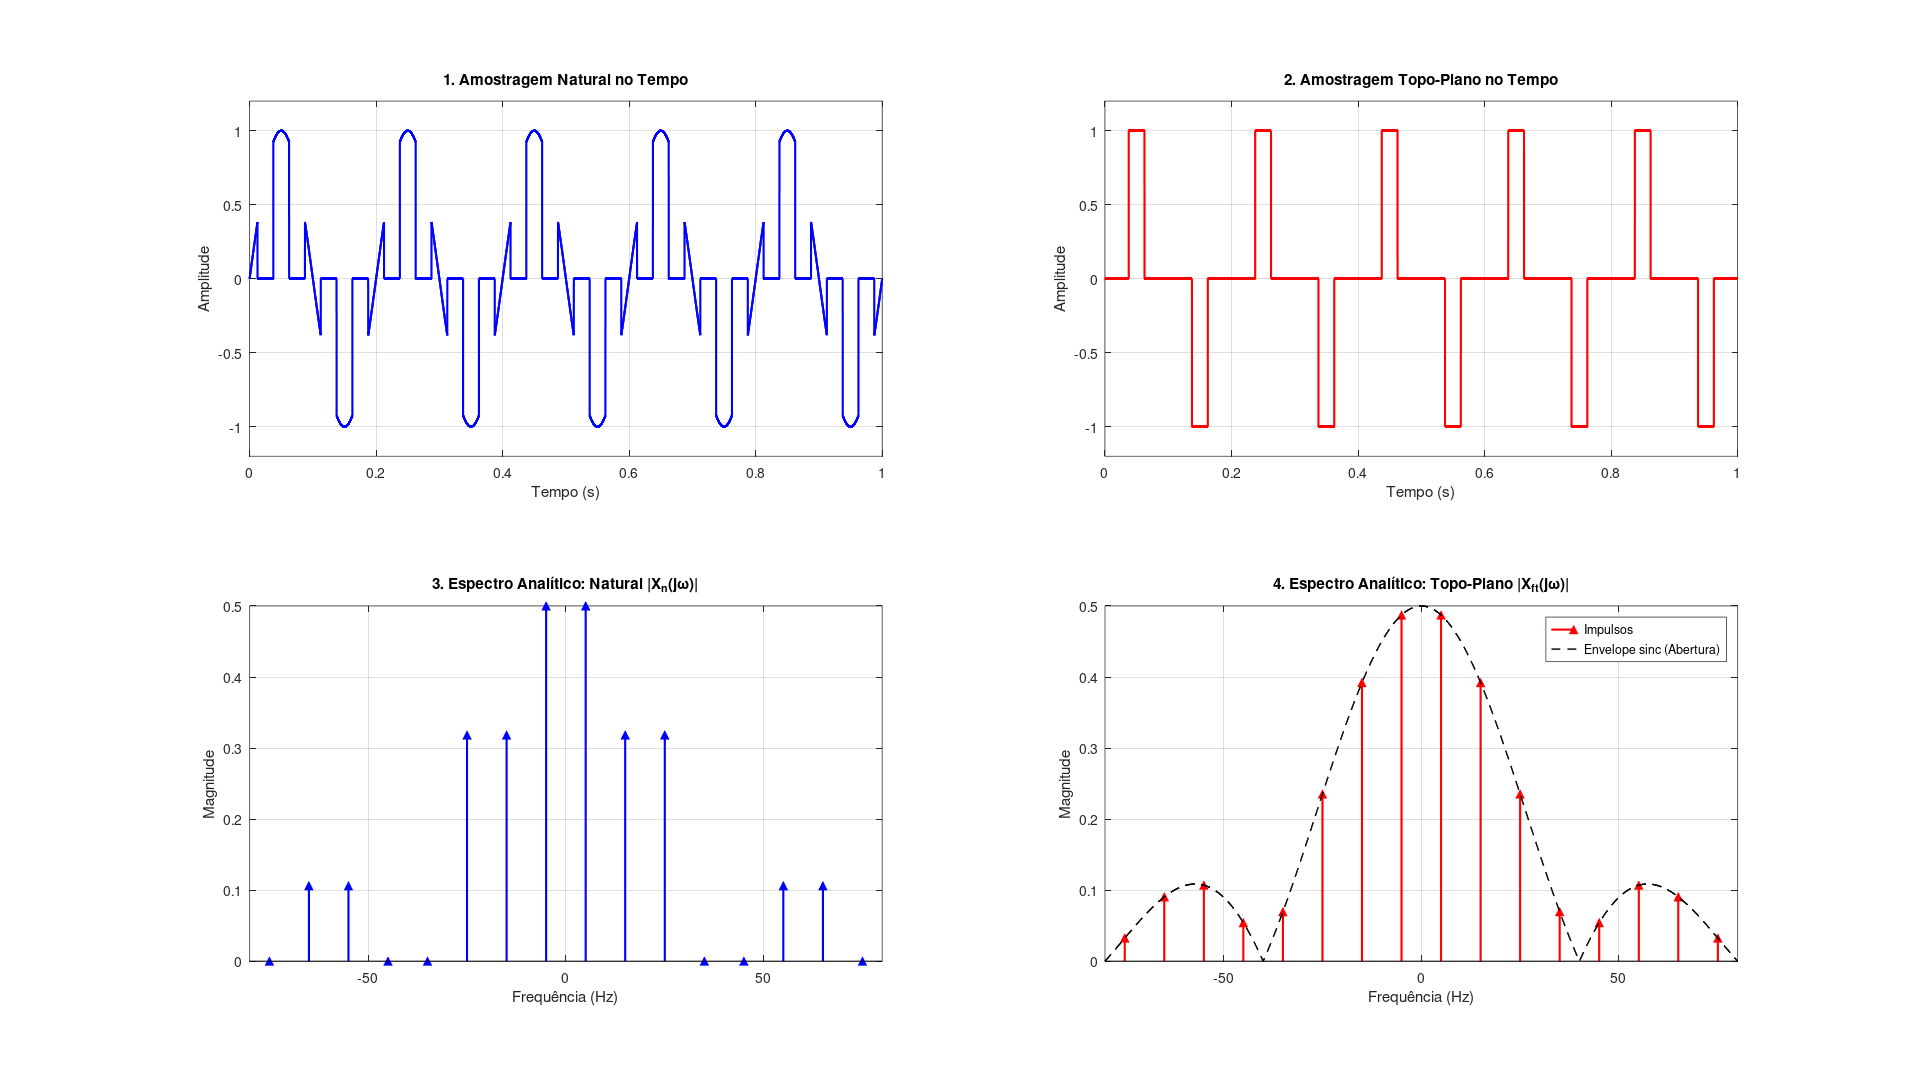
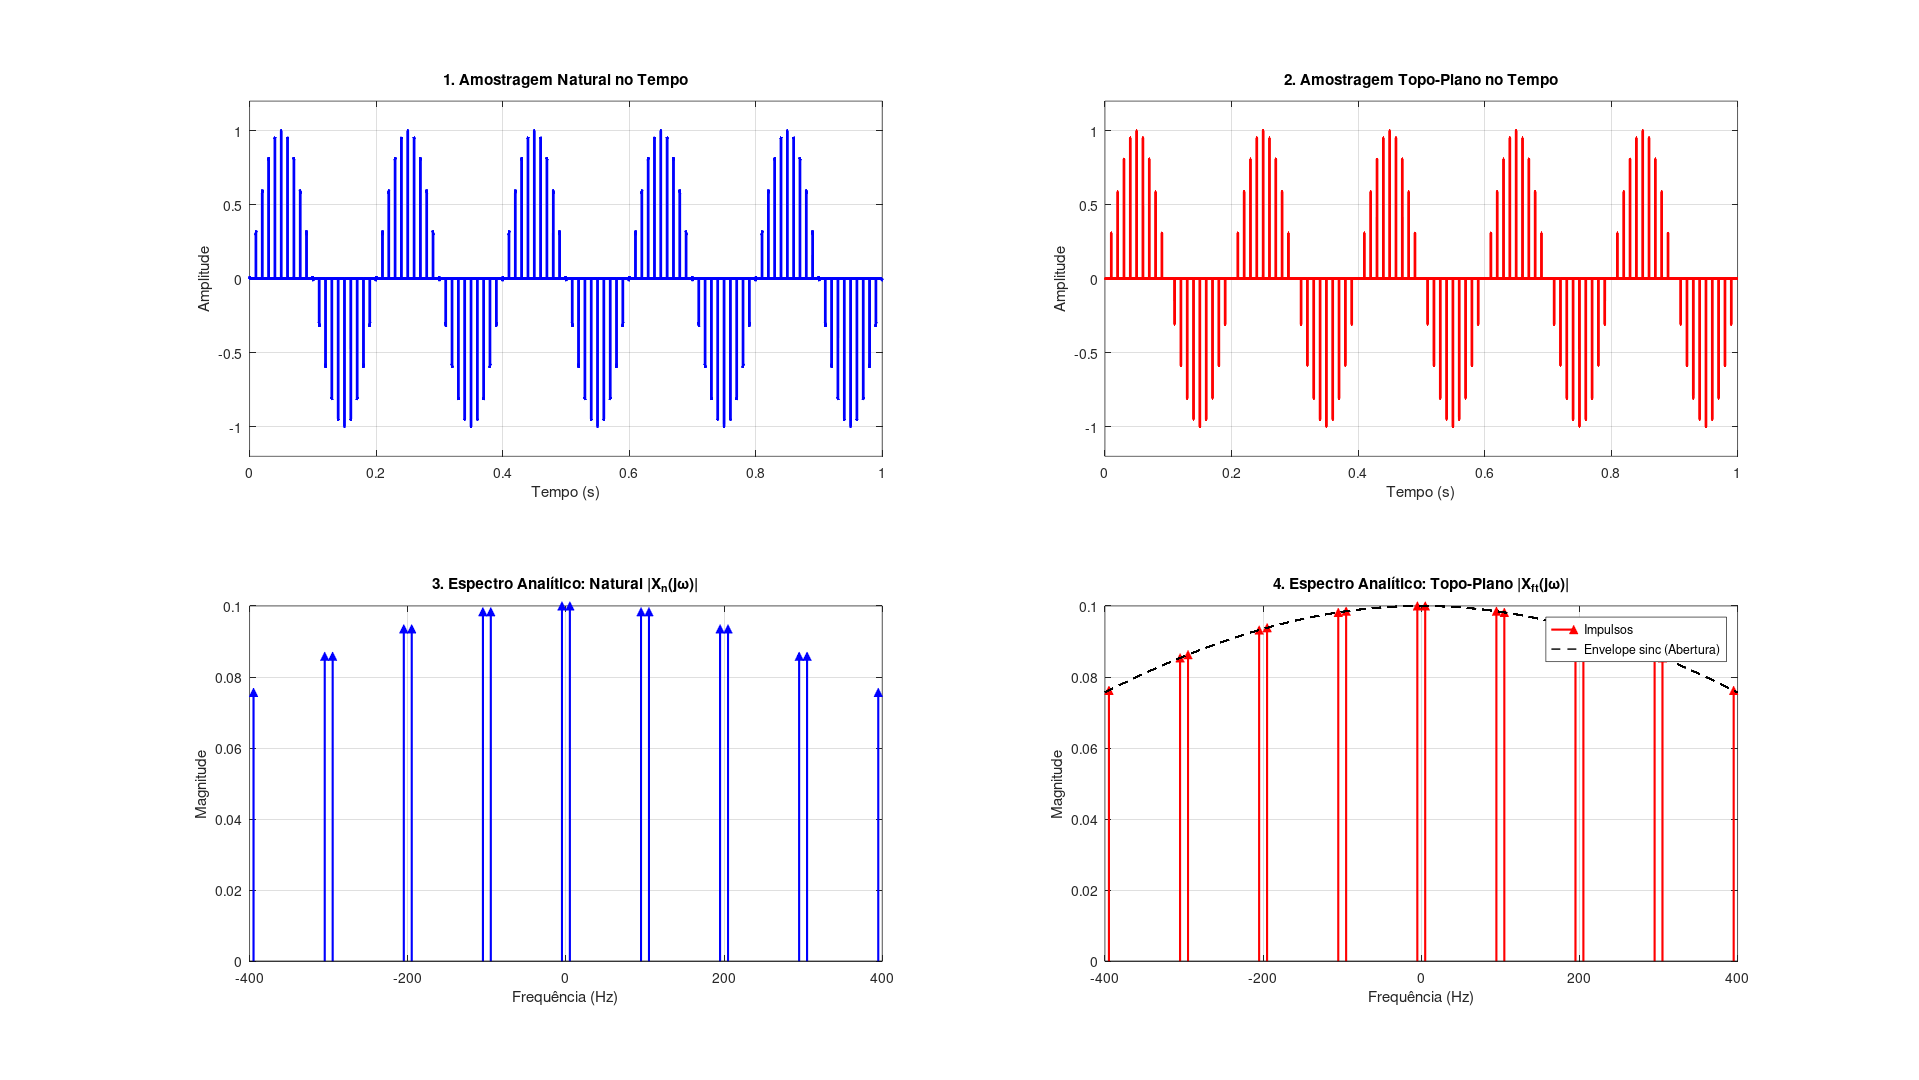
fix: correção dos valores

diff --git a/main.m b/main.m
@@ -58,12 +58,11 @@ grid on; ylim([-1.2 1.2]);
 % PLOT 3: Frequência - Analítico (Contínuo)
 subplot(2, 2, 3);
 frequencyContinuous = [-frequency, frequency];
-magnitudeContinuous = [0.5, 0.5];
+magnitudeContinuous = [1, 1];
 stem(frequencyContinuous, magnitudeContinuous, 'b', 'Marker', '^', 'LineWidth', 1.5, 'MarkerFaceColor', 'b');
 title('3. Espectro Contínuo Analítico |X(j\omega)|');
 xlabel('Frequência (Hz)'); ylabel('Magnitude');
-grid on; xlim([-displayRange displayRange]); ylim([0 0.8]);
-line([-displayRange displayRange], [0 0], 'Color', 'k');
+grid on; xlim([-displayRange displayRange]);
 
 % PLOT 4: Frequência - Analítico (Amostrado Ideal)
 subplot(2, 2, 4);
@@ -83,7 +82,6 @@ stem(idealFrequencyLocations, idealMagnitudes, 'r', 'Marker', '^', 'LineWidth', 
 title('4. Espectro Amostrado Ideal Analítico |X_s(j\omega)|');
 xlabel('Frequência (Hz)'); ylabel('Magnitude');
 grid on; xlim([-displayRange displayRange]); ylim([0 (0.5*samplingFrequency)+2]);
-line([-displayRange displayRange], [0 0], 'Color', 'k');
 
 %% FIGURA 2
 figure(2, 'Name', 'Amostragem Natural e Topo-Plano', 'Position', [150, 150, 1000, 800]);
